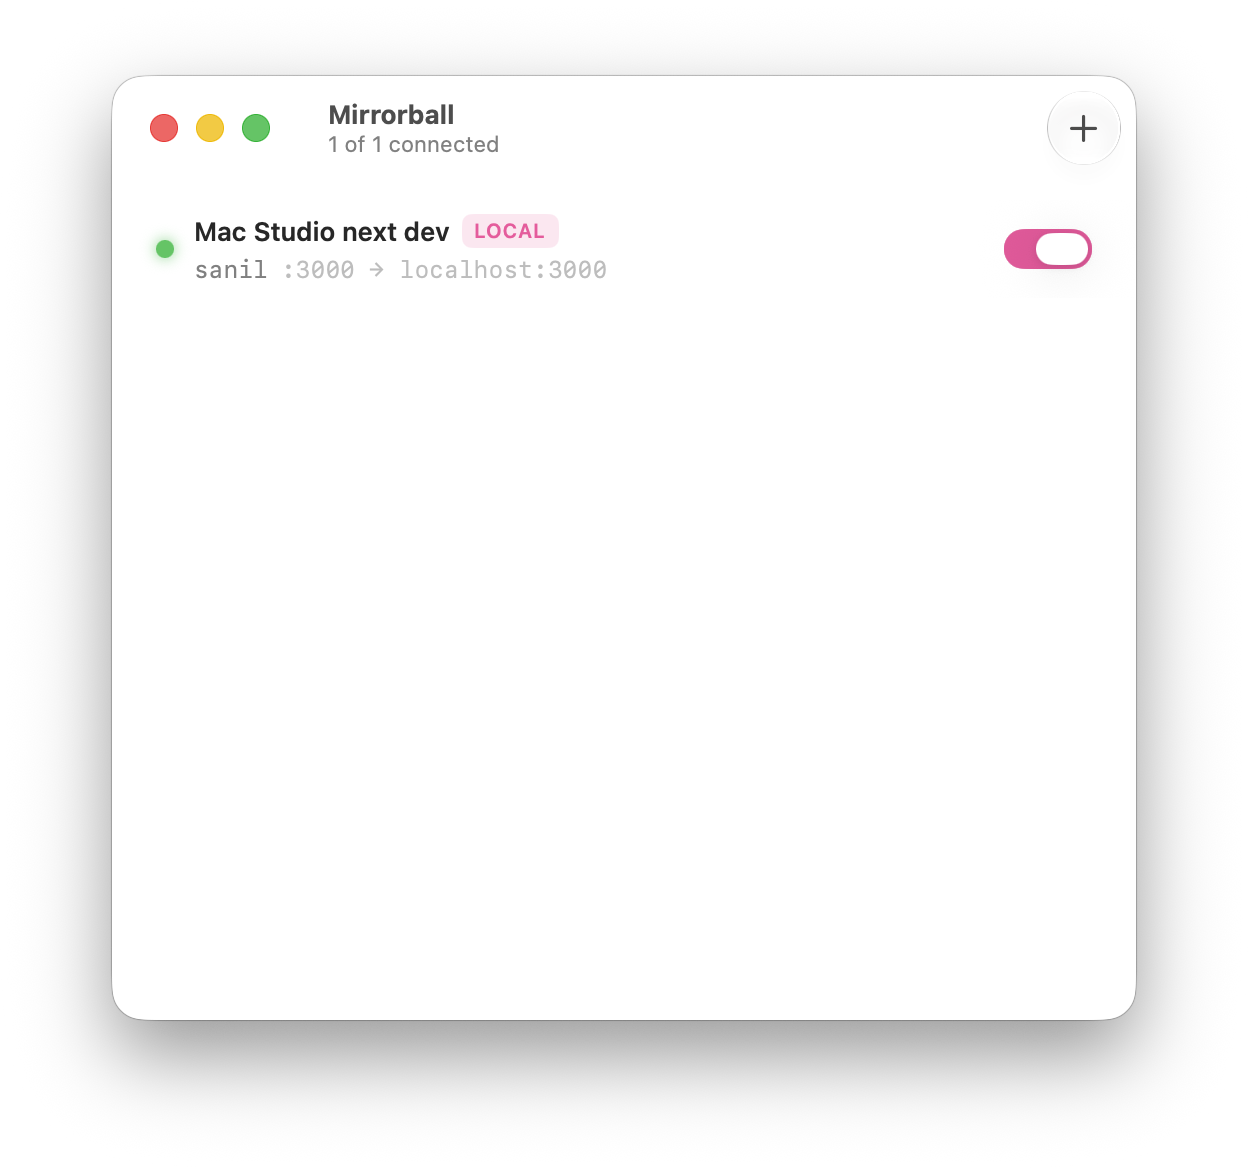
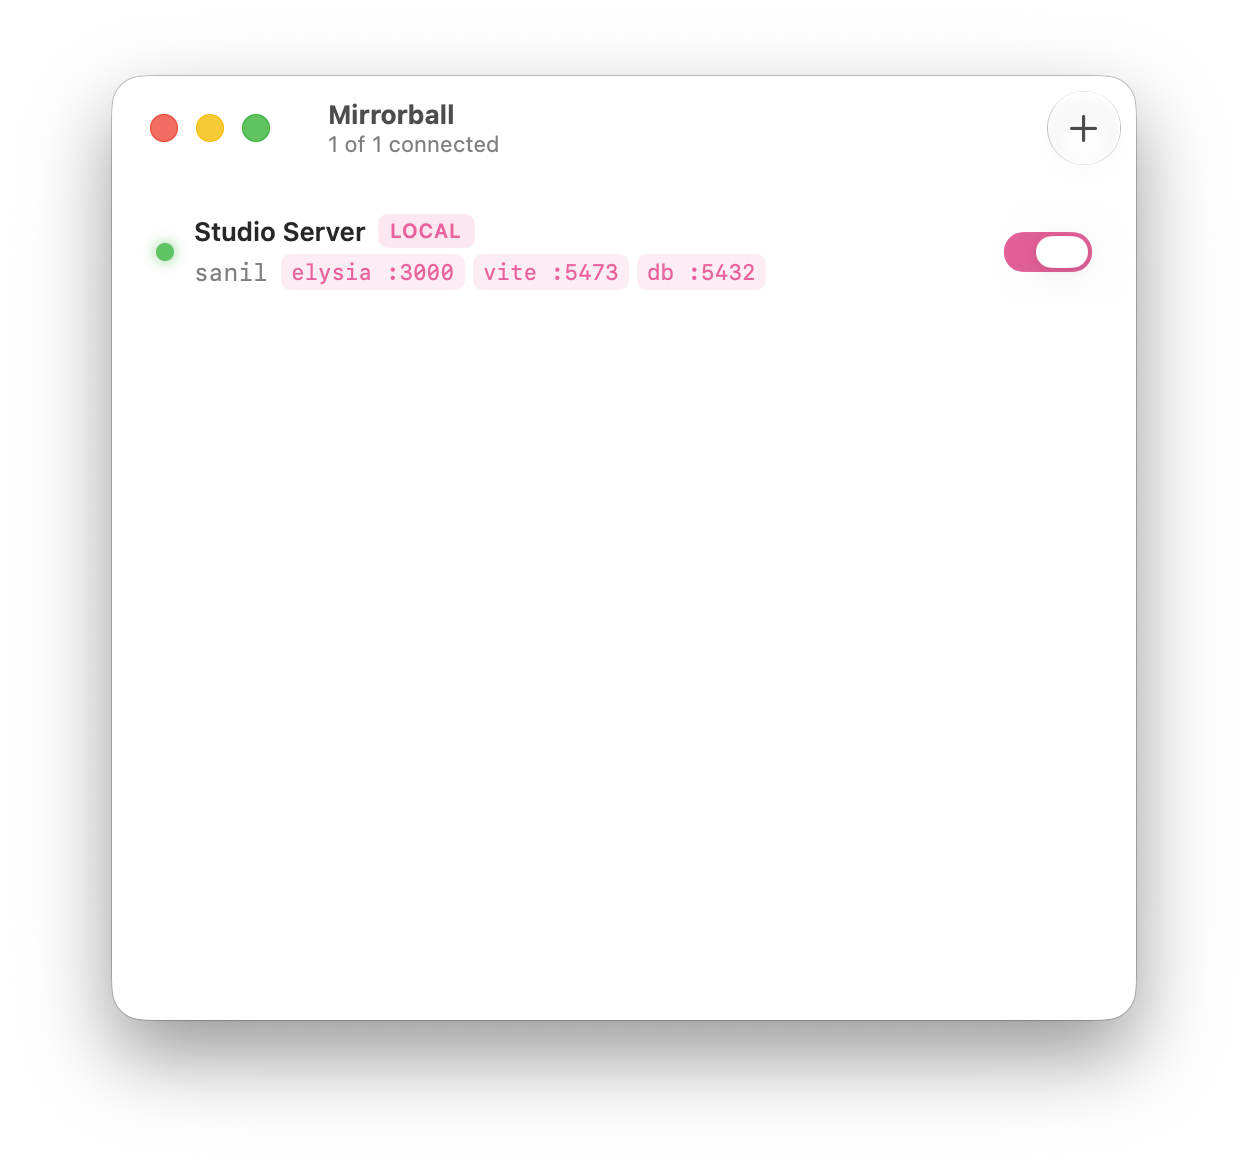
docs: update app screenshots
Refresh the management-window and menu-bar screenshots; the menu bar now
shows the new Check for Updates item, so reflect it in the alt text too.

Changed region(s): [[0.1562, 0.1849, 0.5, 0.2466], [0.8125, 0.1849, 0.875, 0.2466], [0.5312, 0.2158, 0.5938, 0.2466]]

diff --git a/README.md b/README.md
@@ -26,7 +26,7 @@ Built natively in **Swift + SwiftUI** to feel at home on macOS, it goes beyond t
   <img src="docs/app-window.png" alt="Mirrorball's management window: a forward shown as a row with a status dot, a LOCAL badge, its address mapping, and an on/off switch" width="520">
 </p>
 <p align="center">
-  <img src="docs/menu-bar.png" alt="Mirrorball's menu bar dropdown with a quick toggle and Open / Settings / Quit items" width="320">
+  <img src="docs/menu-bar.png" alt="Mirrorball's menu bar dropdown with a quick toggle and Open / Settings / Check for Updates / Quit items" width="320">
   <br>
   <sub>The same forwards in a proper window <em>and</em> the menu bar — flip a switch to bring one up.</sub>
 </p>